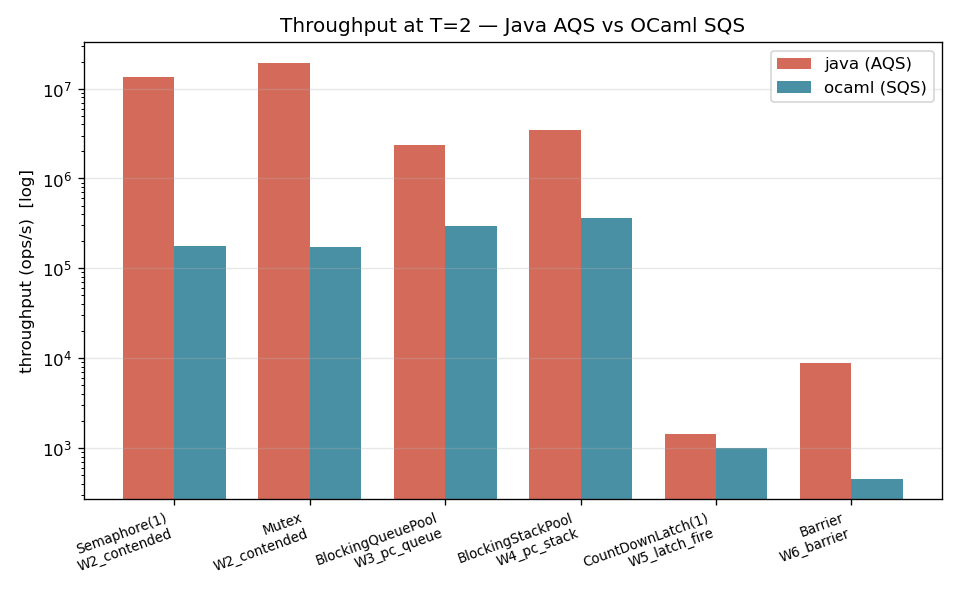
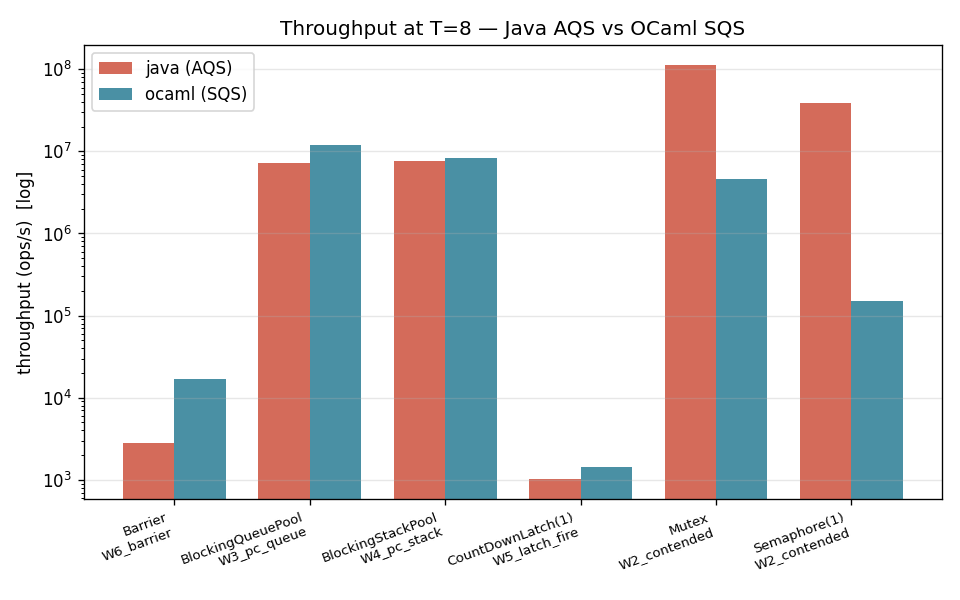
BENCH: Multi-thread throughput graphs

diff --git a/benchmark/plot.py b/benchmark/plot.py
@@ -4,9 +4,12 @@
 Usage: plot.py SUMMARY_CSV OUT_DIR
 
 Emits:
-  OUT_DIR/throughput.png  — grouped bar chart at the highest common T
-  OUT_DIR/scalability.png — one sub-plot per (primitive, workload), with
-                            ocaml and java lines vs threads
+  OUT_DIR/throughput_T{N}.png — grouped bar chart, one per thread count
+                                that appears in the CSV
+  OUT_DIR/throughput.png      — alias for the highest thread count
+                                (kept for back-compat with run_all.sh)
+  OUT_DIR/scalability.png     — one sub-plot per (primitive, workload),
+                                with ocaml and java lines vs threads
 """
 from __future__ import annotations
 
@@ -36,12 +39,9 @@ def aggregate(rows):
     return {k: median(v) for k, v in buckets.items()}
 
 
-def plot_throughput(agg, out_path):
+def plot_throughput_at(agg, target_t, out_path):
     import matplotlib.pyplot as plt
-
-    # Pick a headline thread count: prefer T=4 if present, else the max.
-    all_t = sorted({k[3] for k in agg.keys()})
-    target_t = 4 if 4 in all_t else all_t[-1]
+    import numpy as np
 
     pairs = {}  # (primitive, workload) -> {impl: throughput}
     for (impl, prim, wl, t), th in agg.items():
@@ -50,14 +50,15 @@ def plot_throughput(agg, out_path):
         pairs.setdefault((prim, wl), {})[impl] = th
 
     if not pairs:
-        print("plot_throughput: no rows at T={}".format(target_t))
+        print(f"plot_throughput: no rows at T={target_t}")
         return
 
-    labels = [f"{p}\n{w}" for (p, w) in pairs]
-    ocaml_vals = [pairs[k].get("ocaml", 0) for k in pairs]
-    java_vals  = [pairs[k].get("java",  0) for k in pairs]
+    # Stable ordering so the bars line up across the per-T charts.
+    keys = sorted(pairs.keys())
+    labels = [f"{p}\n{w}" for (p, w) in keys]
+    ocaml_vals = [pairs[k].get("ocaml", 0) for k in keys]
+    java_vals  = [pairs[k].get("java",  0) for k in keys]
 
-    import numpy as np
     x = np.arange(len(labels))
     width = 0.38
 
@@ -73,7 +74,20 @@ def plot_throughput(agg, out_path):
     ax.grid(True, axis="y", alpha=0.3)
     fig.tight_layout()
     fig.savefig(out_path, dpi=120)
+    plt.close(fig)
     print(f"wrote {out_path}")
+
+
+def plot_throughput(agg, out_dir):
+    """Emit one bar chart per thread count, plus a stable throughput.png
+       alias pointing at the highest T (for back-compat with run_all.sh)."""
+    all_t = sorted({k[3] for k in agg.keys()})
+    if not all_t:
+        print("plot_throughput: no data")
+        return
+    for t in all_t:
+        plot_throughput_at(agg, t, os.path.join(out_dir, f"throughput_T{t}.png"))
+    plot_throughput_at(agg, all_t[-1], os.path.join(out_dir, "throughput.png"))
 
 
 def plot_scalability(agg, out_path):
@@ -126,7 +140,7 @@ def main(argv):
         print("no rows in CSV", file=sys.stderr)
         return 1
     agg = aggregate(rows)
-    plot_throughput(agg, os.path.join(out_dir, "throughput.png"))
+    plot_throughput(agg, out_dir)
     plot_scalability(agg, os.path.join(out_dir, "scalability.png"))
     return 0
 